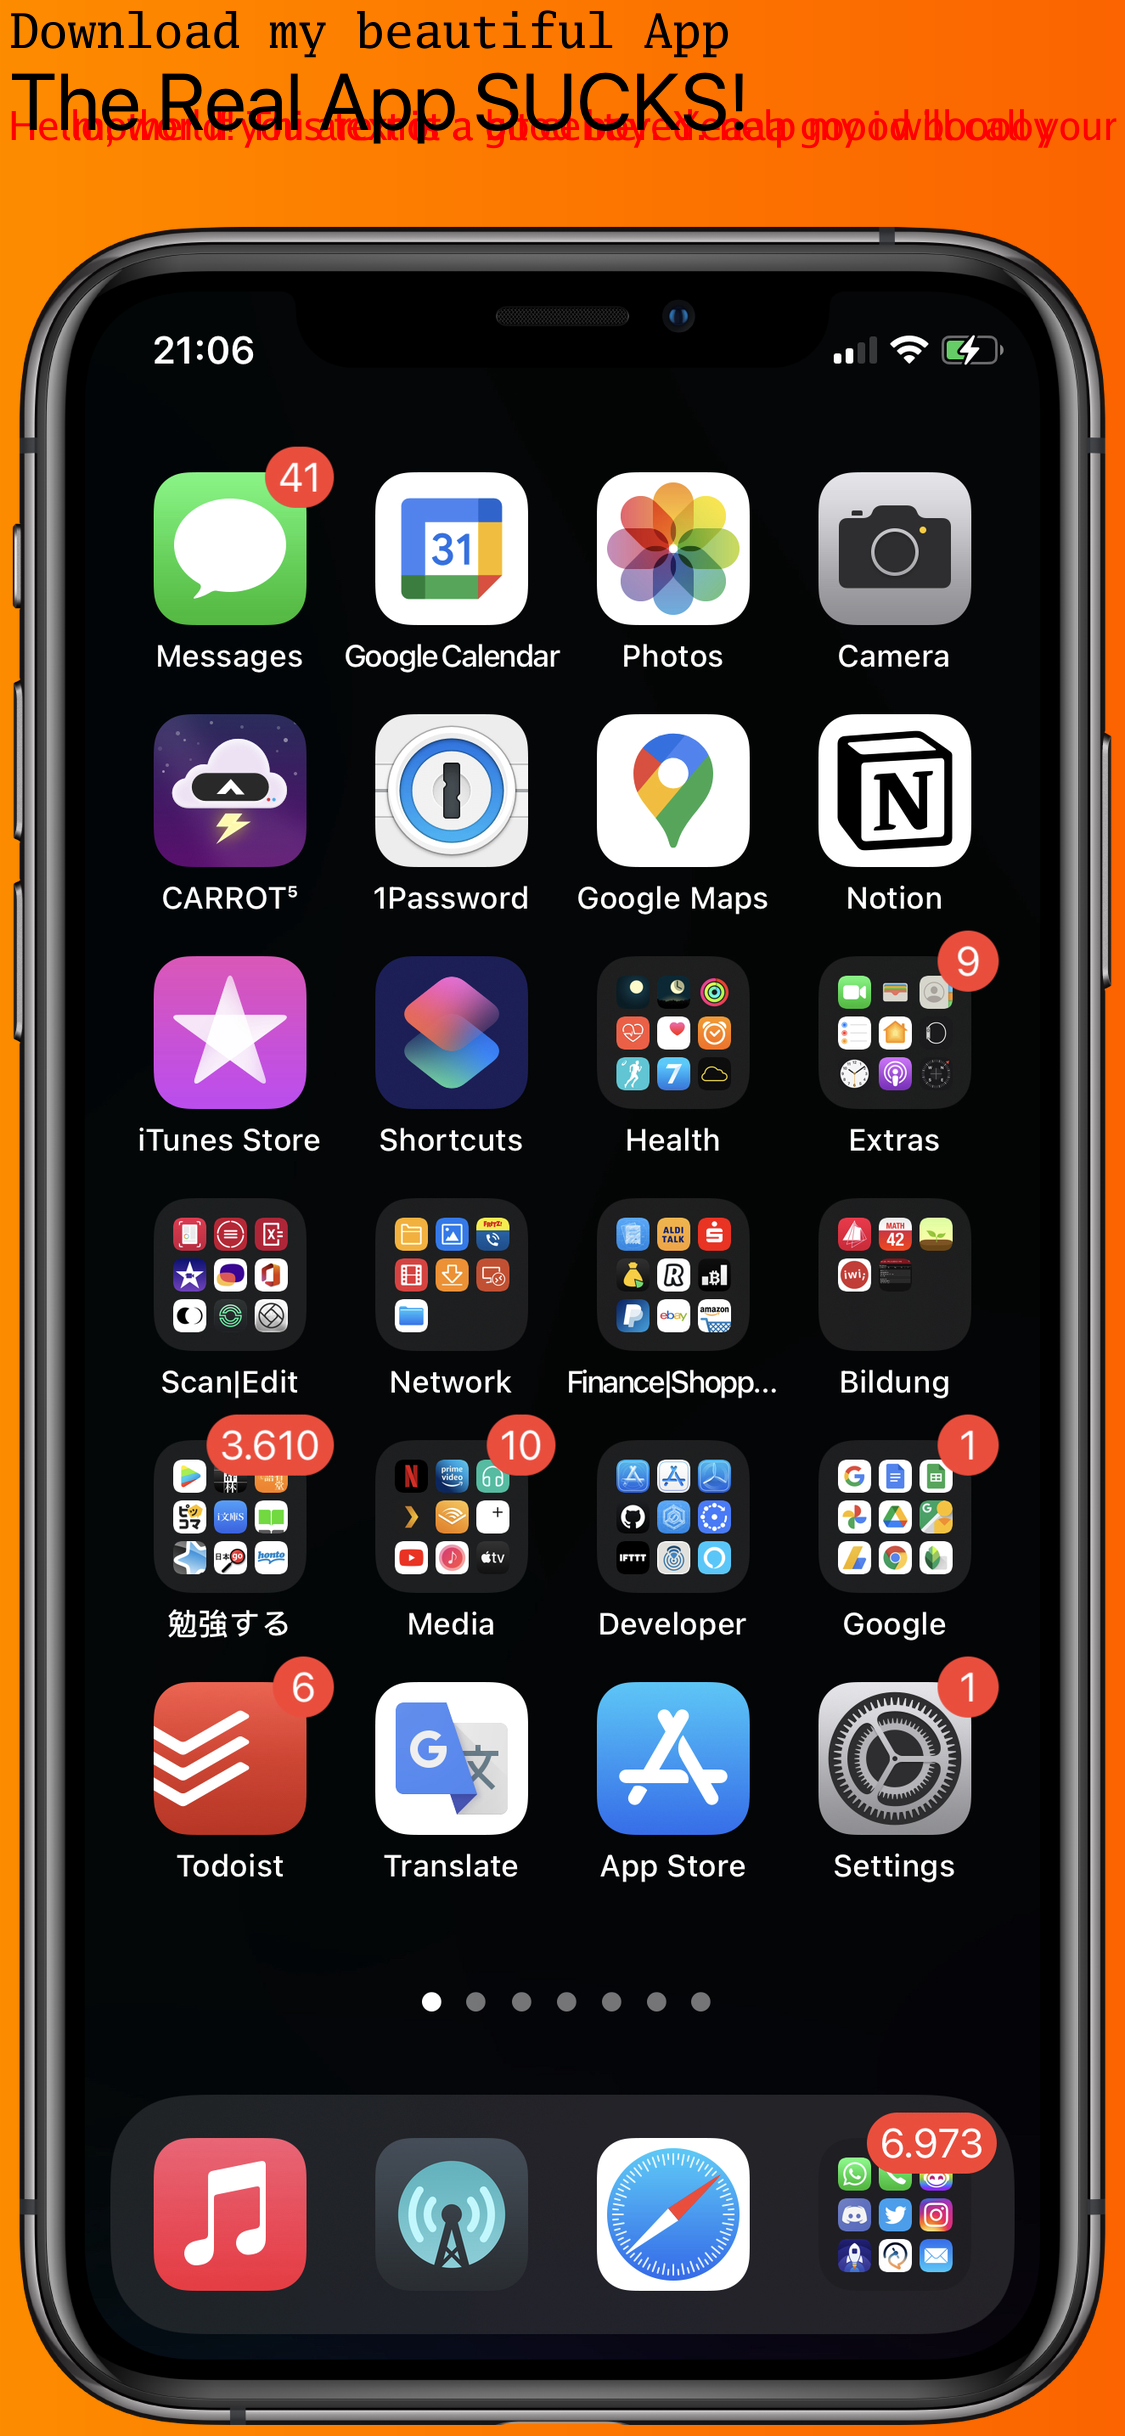
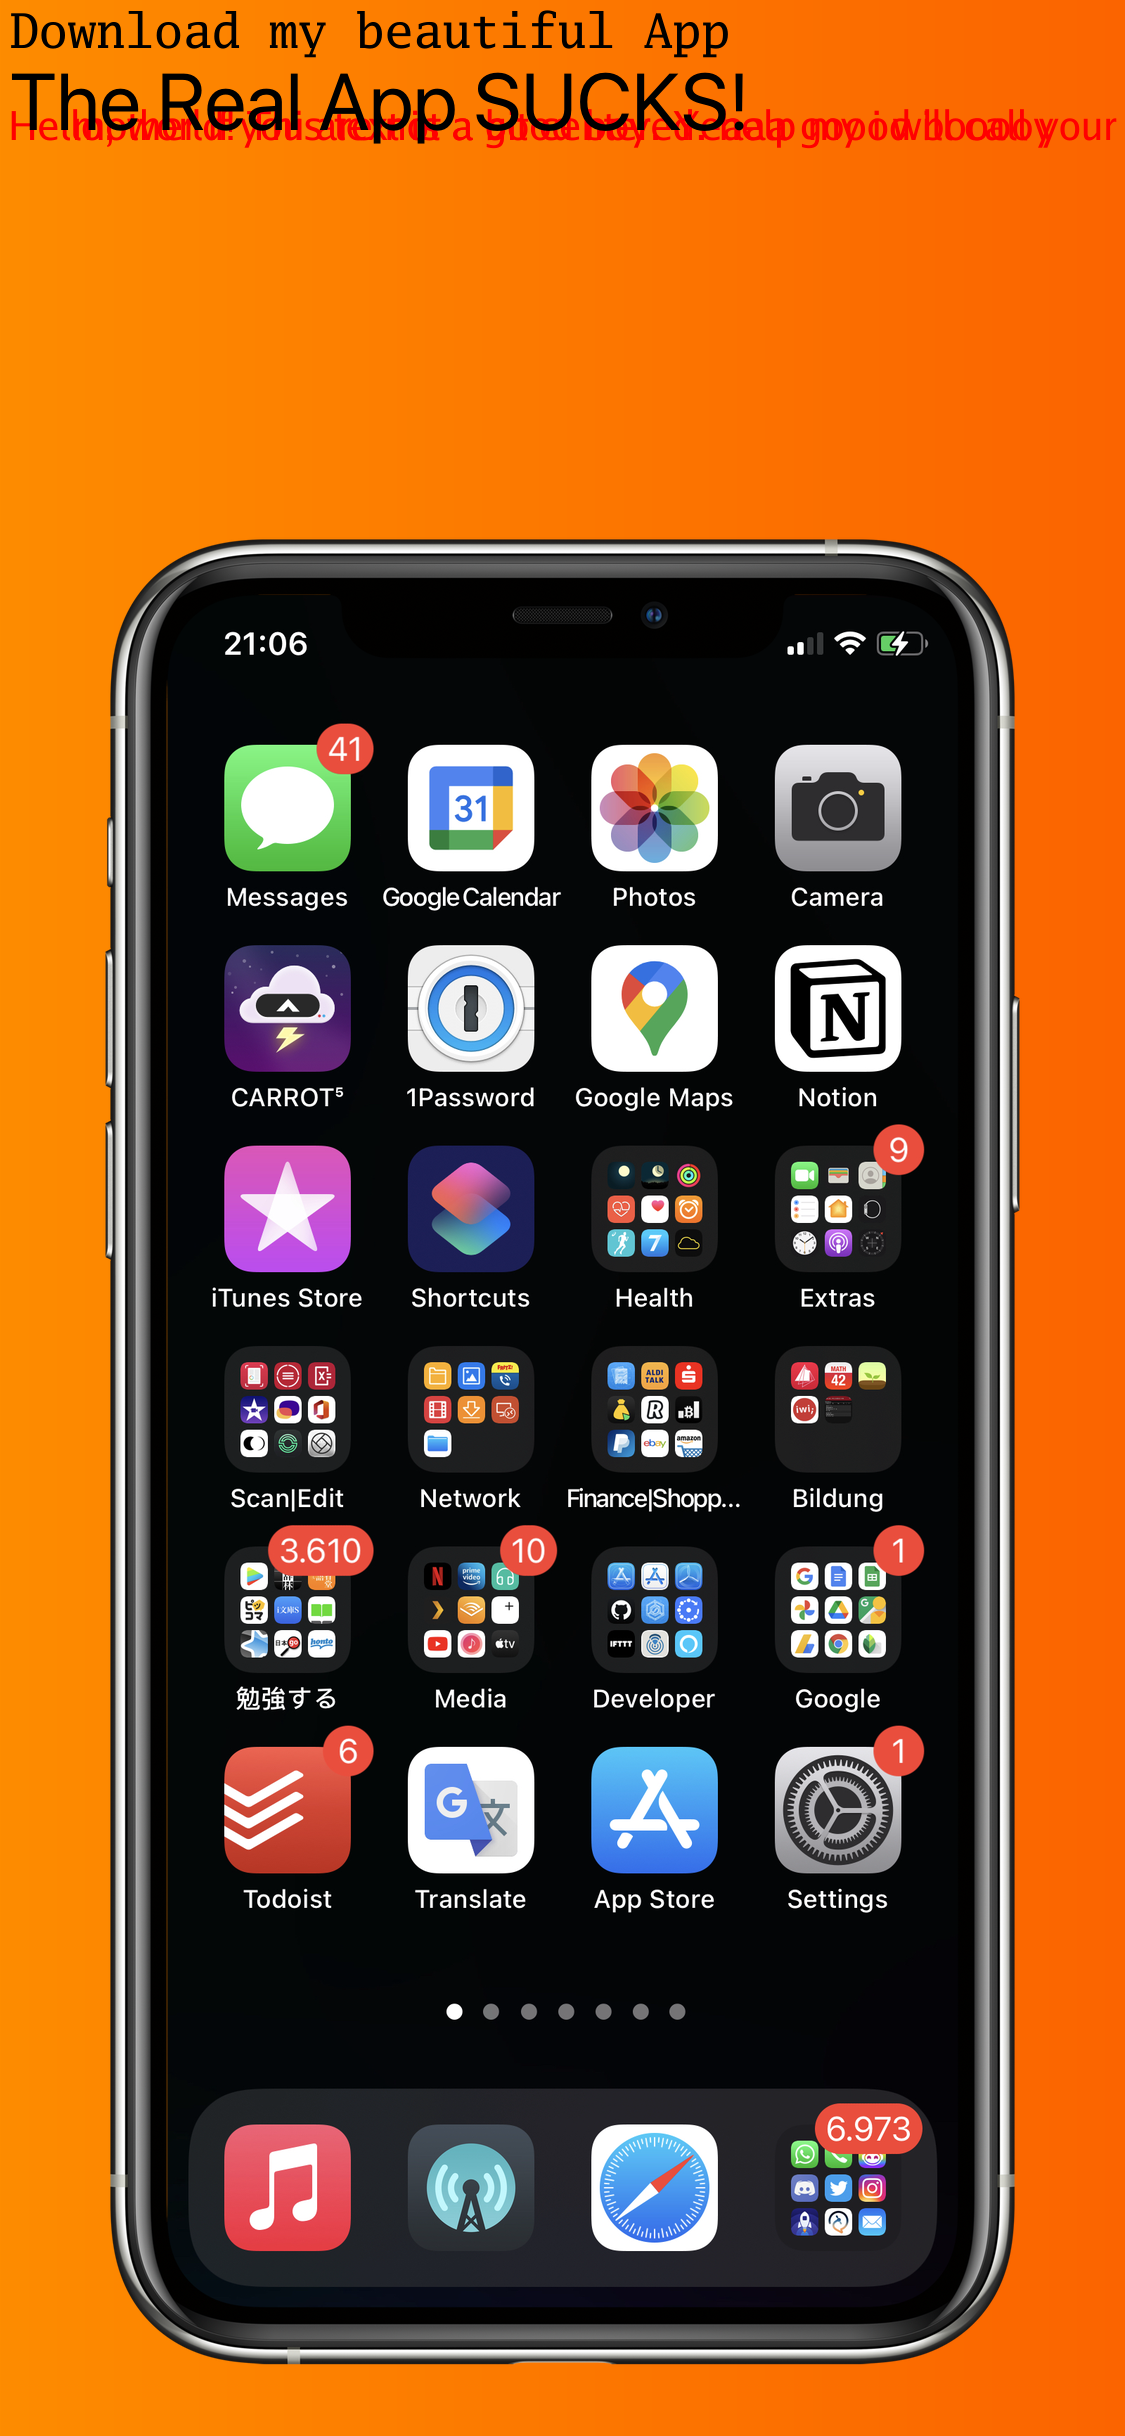
added basic recogniton

diff --git a/core/concat.go b/core/concat.go
@@ -13,6 +13,7 @@ import (
 	"io/ioutil"
 	"log"
 	"os"
+	"path/filepath"
 	"time"
 
 	"github.com/disintegration/imaging"
@@ -70,16 +71,20 @@ func loadImageChannel(pathPicture string, images chan image.Image, errors chan e
 func StartConcat(center bool) {
 	startTime := time.Now()
 	screenshotImage := make(chan image.Image)
-	frameImage := make(chan image.Image)
 	errChannel := make(chan error)
 	gradientChannel := make(chan *image.RGBA)
+	frames := Frames{}
 	go loadImageChannel("test.png", screenshotImage, errChannel)
-	go loadImageChannel("Frame-X.png", frameImage, errChannel)
 
 	select {
 	case screenshot := <-screenshotImage:
 		screenshotSize := screenshot.Bounds()
 		fmt.Printf("Loaded Screenshot with size: %v x %v \n", screenshotSize.Size().X, screenshotSize.Size().Y)
+		frameStruct := frames.getForSize(screenshotSize.Size().X, screenshotSize.Size().Y)
+		fmt.Printf("Found Frames for %s \n", frameStruct.name)
+
+		frameImage := make(chan image.Image)
+		go loadImageChannel(filepath.Join("core", "frames", frameStruct.path), frameImage, errChannel)
 		go CreateGradient(screenshotSize.Size().X, screenshotSize.Size().Y, gradientChannel)
 
 		select {
@@ -90,7 +95,7 @@ func StartConcat(center bool) {
 			fmt.Printf("Loaded Frame with size: %v x %v \n", frameSize.Size().X, frameSize.Size().Y)
 
 			output := image.NewRGBA(frameSize)
-			offset := image.Pt(100, 90)
+			offset := image.Pt(frameStruct.xOffset, frameStruct.YOffset)
 			//combine
 			gradient := <-gradientChannel
 

diff --git a/core/frames.go b/core/frames.go
@@ -10,7 +10,8 @@ type DeviceFrame struct {
 type Frames struct {
 
 }
-func (v Frames) get() []DeviceFrame {
+
+func (f Frames) get() []DeviceFrame {
 	frames:= []DeviceFrame{
 		{
 			name:             "iPhone 12 Pro Max",
@@ -84,7 +85,7 @@ func (v Frames) get() []DeviceFrame {
 		},
 		{
 			name:             "iPhone 12 mini",
-			path:             "12_12_PRO.png",
+			path:             "12_MINI.png",
 			screenshotWidth:  1080,
 			screenshotHeight: 2340,
 			frameWidth:       1325,
@@ -93,6 +94,14 @@ func (v Frames) get() []DeviceFrame {
 			YOffset:          0,
 		},
 	}
-	
 	return frames
+}
+
+func (f Frames) getForSize(width, height int) DeviceFrame {
+	for _, v := range f.get() {
+		if v.screenshotWidth == width && v.screenshotHeight == height {
+			return v
+		}
+	}
+	return DeviceFrame{}
 }
